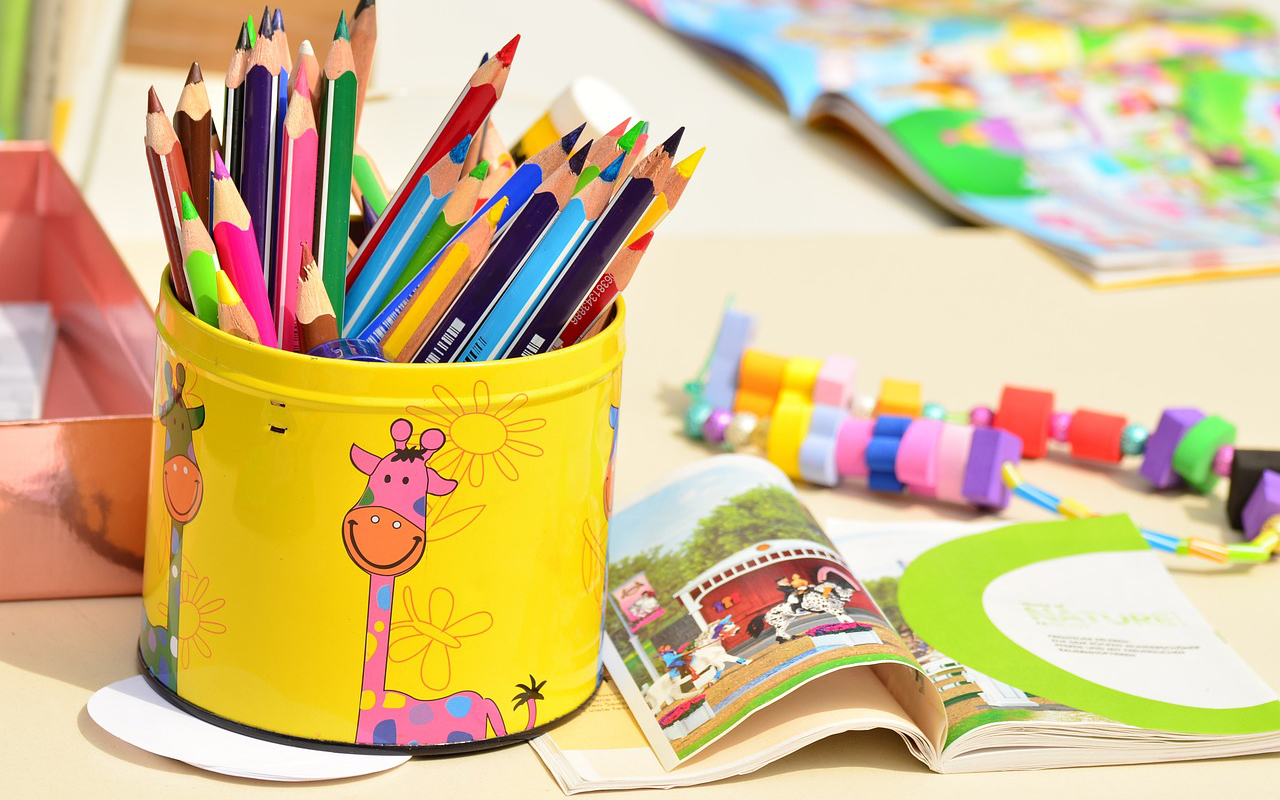
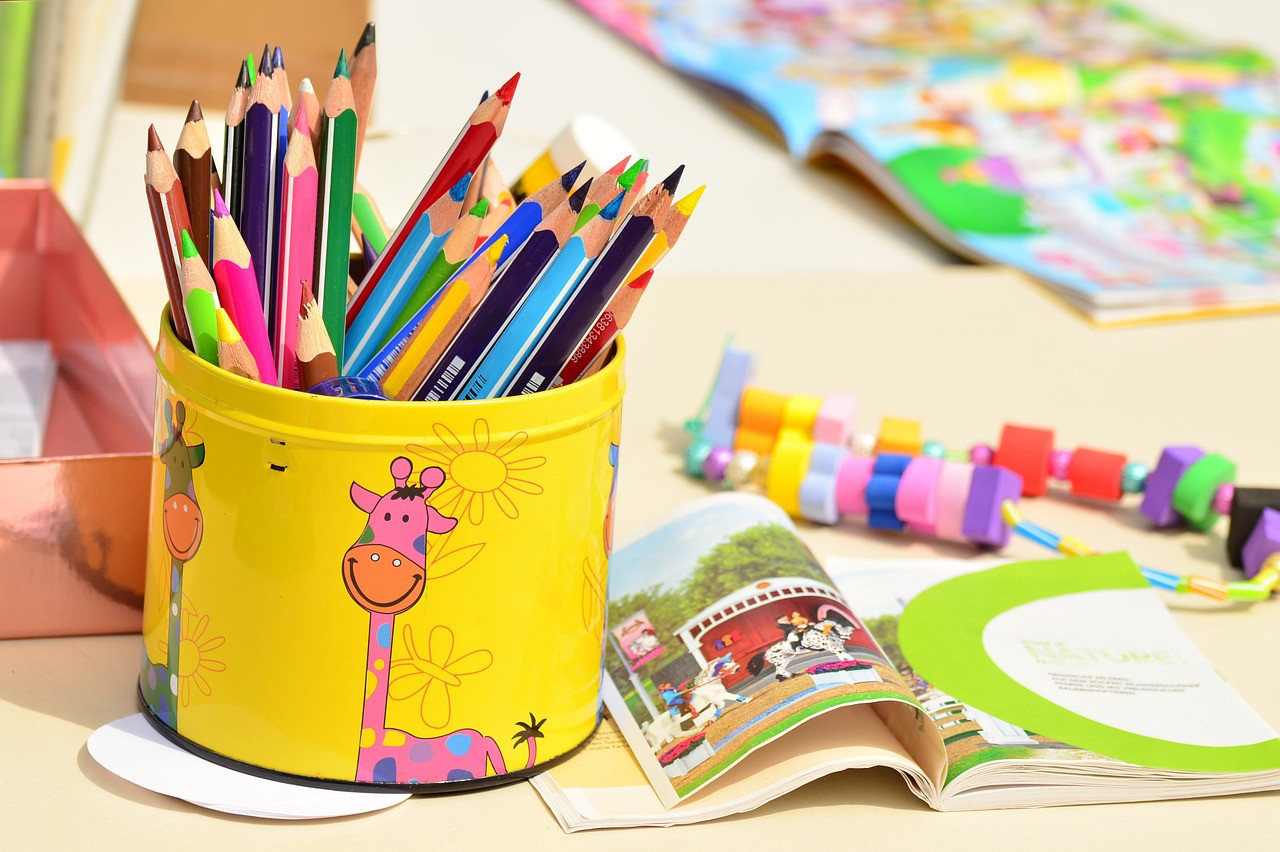
update

diff --git a/index.html b/index.html
@@ -59,9 +59,9 @@
                         <li data-target="#carouselExampleIndicators" data-slide-to="1"></li>
                         <li data-target="#carouselExampleIndicators" data-slide-to="2"></li>
                     </ol>
-                    <div class="carousel-inner">
+                    <div class="carousel-inner" style="height: 450px;margin-bottom: 100px;margin-top: 50px;">
                         <div class="carousel-item active">
-                            <img src="assets/img/image1.jpg" class="d-block w-100" alt="Enfant psychomotricité">
+                            <img src="assets/img/image4.jpg" class="d-block w-100" alt="Enfant psychomotricité">
                             <!--  <div class="carousel-caption d-none d-md-block">
                                 <h5>Title</h5>
                                 <p>Lorem ipsum dolor sit amet, consectetur adipisicing elit. Aperiam maxime ipsam iusto, eos animi distinctio aut incidunt? Ea sint rerum odio expedita, sunt repellat beatae sed, corporis ipsam provident iste.</p>
